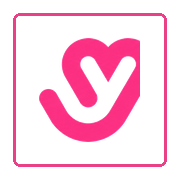
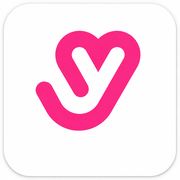
Add files via upload

diff --git a/app/index.html b/app/index.html
@@ -11,6 +11,9 @@
 <title>Yumble — Love Food. Love Life</title>
 <link rel="manifest" href="manifest.webmanifest">
 <link rel="apple-touch-icon" href="apple-touch-icon.png">
+<link rel="apple-touch-icon" sizes="152x152" href="apple-touch-icon-152.png">
+<link rel="apple-touch-icon" sizes="167x167" href="apple-touch-icon-167.png">
+<link rel="apple-touch-icon" sizes="180x180" href="apple-touch-icon.png">
 <link rel="icon" type="image/png" href="favicon.png">
 <link rel="preconnect" href="https://fonts.googleapis.com">
 <link rel="preconnect" href="https://fonts.gstatic.com" crossorigin>
